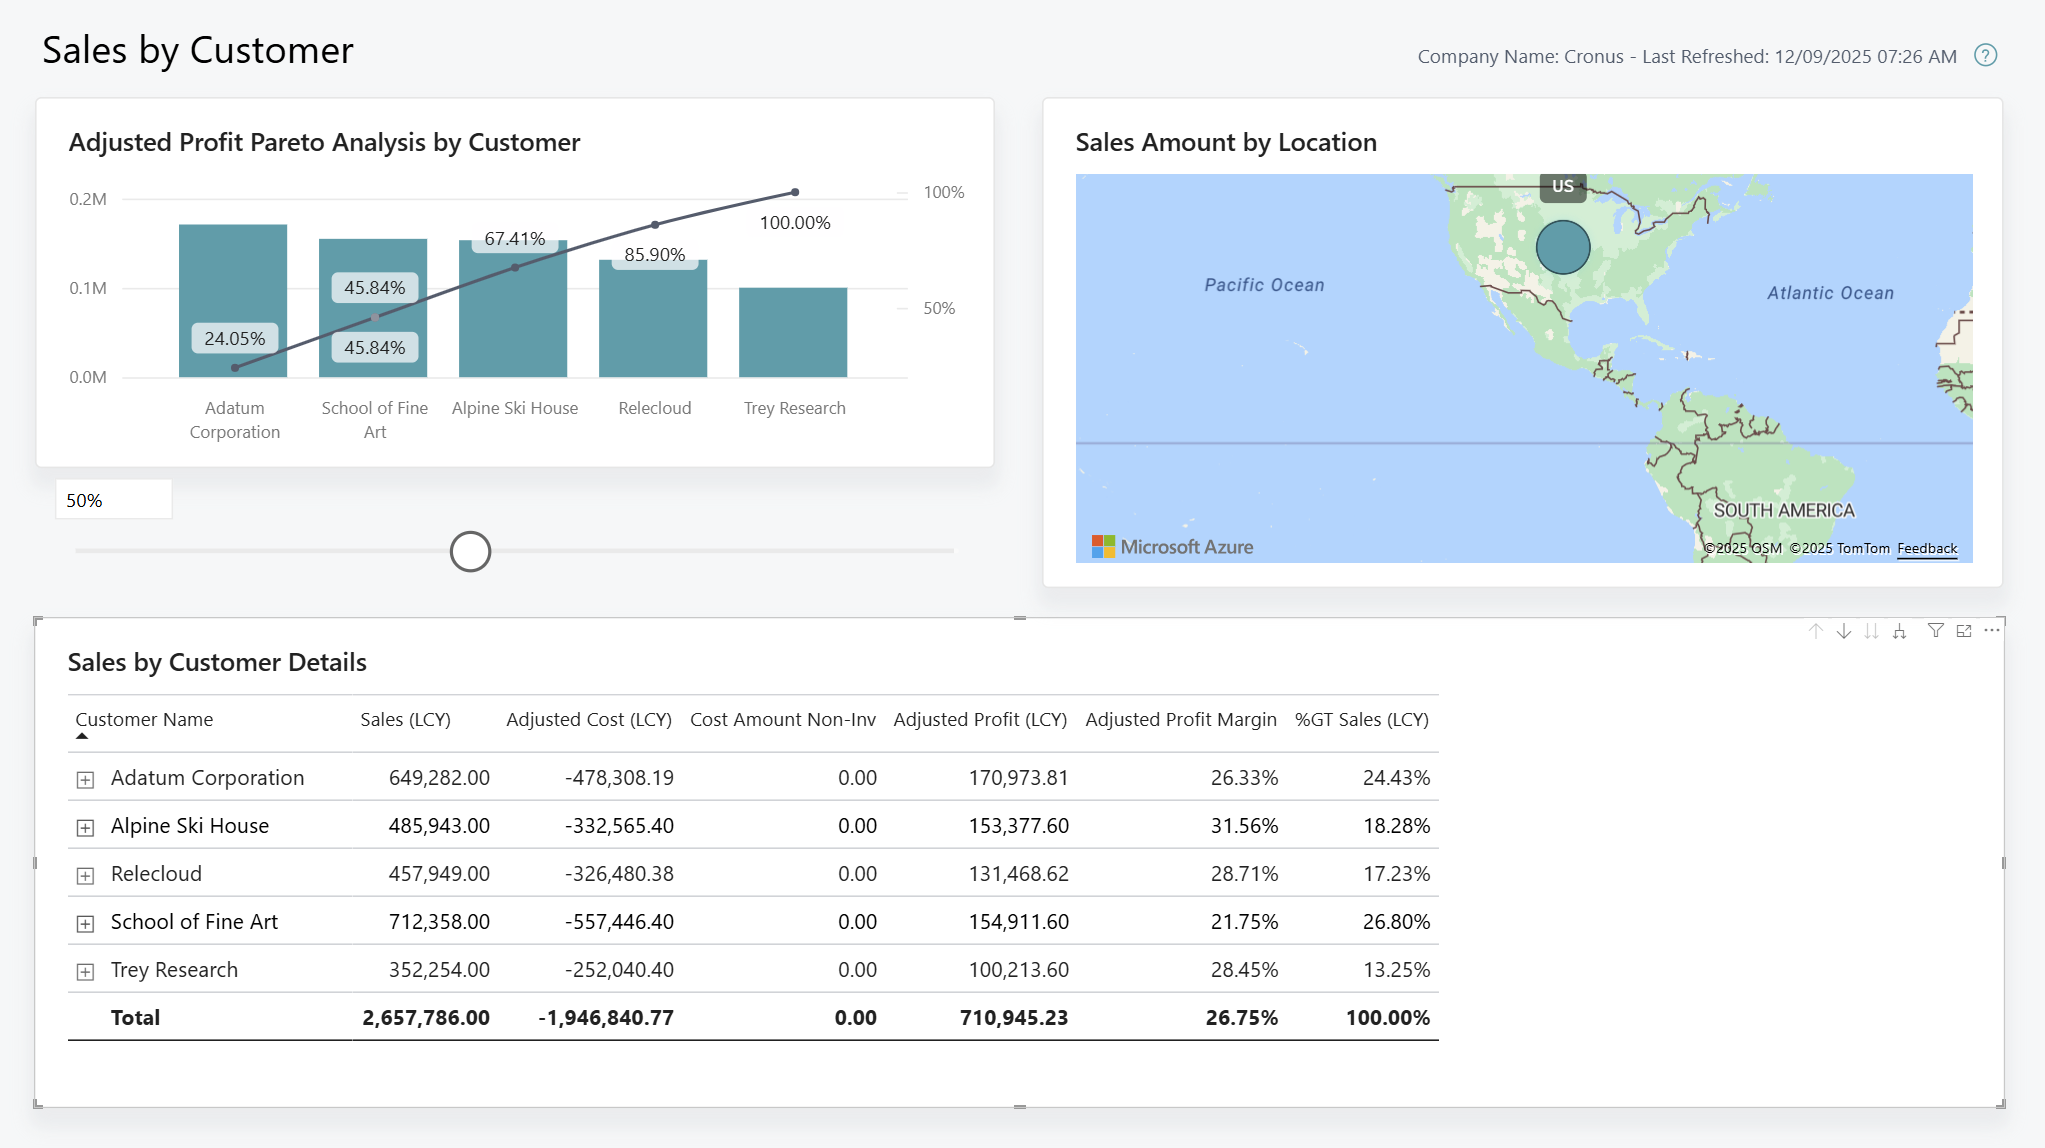
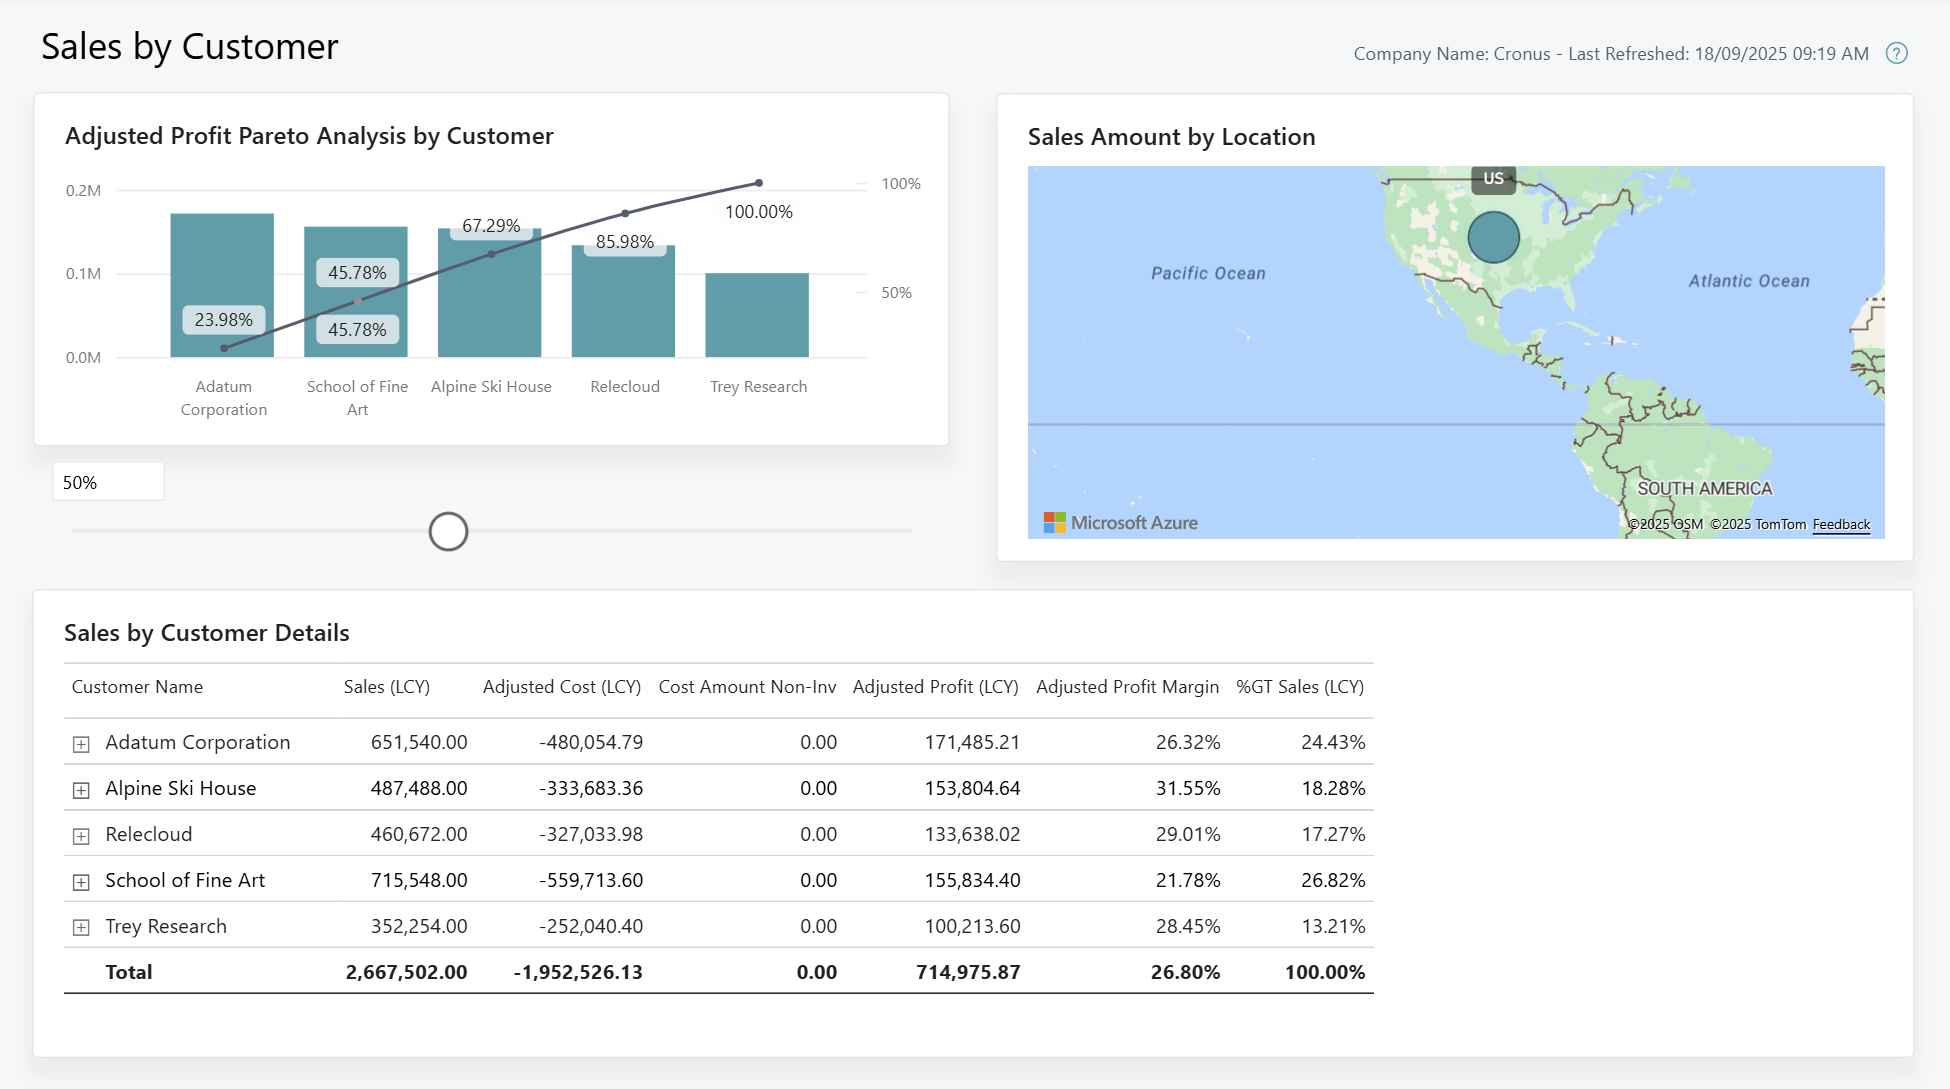
Updates sales page KPIs

diff --git a/business-central/sales-powerbi-sales-overview.md b/business-central/sales-powerbi-sales-overview.md
@@ -55,9 +55,11 @@ The report includes the following KPIs and measures:
 - [**Adjusted Profit (LCY)**](sales-powerbi-sales-kpis.md#adjusted-profit-lcy)
 - [**Adjusted Profit Margin**](sales-powerbi-sales-kpis.md#adjusted-profit-margin)
 - [**Outstanding Invoices (LCY)**](sales-powerbi-sales-kpis.md#outstanding-invoices-lcy)
-- [**No. of New Customers**](sales-powerbi-sales-kpis.md#no-of-new-customers)
 - [**No. of Outstanding Sales Orders**](sales-powerbi-sales-kpis.md#no-of-outstanding-sales-orders)
 - [**No. of Shipped Not Invoiced Orders**](sales-powerbi-sales-kpis.md#no-of-shipped-not-invoiced-sales)
+- [**Outstanding Orders (LCY)**](sales-powerbi-sales-kpis.md#outstanding-orders-lcy)
+- [**Shipped Not Invoiced (LCY)**](sales-powerbi-sales-kpis.md#shipped-not-invoiced-lcy)
+- [**No. of Outstanding Invoices**](sales-powerbi-sales-kpis.md#no-of-outstanding-invoices)
 
 [!INCLUDE[click-on-a-kpi-link](includes/click-on-a-kpi-link.md)] 
 

diff --git a/business-central/sales-powerbi-period-over-period-growth.md b/business-central/sales-powerbi-period-over-period-growth.md
@@ -35,10 +35,11 @@ For sales managers who oversee daily sales activities, the report can help you i
 
 The report includes the following key performance indicators (KPIs) and measures:
 
-- [**Sales Amount**](sales-powerbi-sales-kpis.md#sales-amount)
+- [**Sales (LCY)**](sales-powerbi-sales-kpis.md#sales-lcy)
 - [**Previous Period**](sales-powerbi-sales-kpis.md#sales-amount-pp-fiscal)
 - [**Period-over-Period Growth Amount**](sales-powerbi-sales-kpis.md#sales-amount-pop-fiscal)
 - [**Period-over-Period Growth %**](sales-powerbi-sales-kpis.md#sales-amount-pop--fiscal)
+- [**Sales Amount PP (Fiscal Year)**](sales-powerbi-sales-kpis.md#sales-amount-pp-fiscal-year)
 
 [!INCLUDE[click-on-a-kpi-link](includes/click-on-a-kpi-link.md)] 
 

diff --git a/business-central/sales-powerbi-sales-forecasting.md b/business-central/sales-powerbi-sales-forecasting.md
@@ -17,8 +17,7 @@ ms.service: dynamics-365-business-central
 
 The **Sales Forecasting** report predicts future sales trends based on historical data. It uses advanced techniques to project sales values, helping users anticipate demand.
 
-**To do** Add correct link to image
-:::image type="content" source="media/sales/sales-forecasting.png" alt-text="Screenshot of the Sales Forecasting Power BI report" lightbox="media/sales/sales-forecasting.png":::
+:::image type="content" source="media/powerbi/sales/sales-forecasting.png" alt-text="Screenshot of the Sales Forecasting Power BI report" lightbox="media/powerbi/sales/sales-forecasting.png":::
 
 ## Use the report
 

diff --git a/business-central/sales-powerbi-sales-by-customer.md b/business-central/sales-powerbi-sales-by-customer.md
@@ -38,7 +38,7 @@ The report includes the following key performance indicators (KPIs) and measures
 - [**Cost Amount Non-Inv**](sales-powerbi-sales-kpis.md#cost-amount-non-inv)
 - [**Adjusted Profit (LCY)**](sales-powerbi-sales-kpis.md#adjusted-profit-lcy)
 - [**Adjusted Profit Margin**](sales-powerbi-sales-kpis.md#adjusted-profit-margin)
-- [**%GT Sales (LCY)**](sales-powerbi-sales-kpis.md#gt-sales-lcy)
+- [**Pareto Cumulative Adjusted Profit %**](sales-powerbi-sales-kpis.md#pareto-cumulative-adjusted-profit)
 
 [!INCLUDE[click-on-a-kpi-link](includes/click-on-a-kpi-link.md)] 
 

diff --git a/business-central/sales-powerbi-opportunity-overview.md b/business-central/sales-powerbi-opportunity-overview.md
@@ -41,6 +41,7 @@ The report includes the following key performance indicators (KPIs) and measures
 - [**No. of Opportunities**](sales-powerbi-sales-kpis.md#no-of-opportunities)
 - [**Opportunity Sales Quote Amount**](sales-powerbi-sales-kpis.md#opportunity-sales-quote-amount)
 - [**Win/Loss %**](sales-powerbi-sales-kpis.md#win-loss-percent)
+- [**Active Estimated Value**](sales-powerbi-sales-kpis.md#active-estimated-value)
 
 [!INCLUDE[click-on-a-kpi-link](includes/click-on-a-kpi-link.md)]
 

diff --git a/business-central/sales-powerbi-return-order-overview.md b/business-central/sales-powerbi-return-order-overview.md
@@ -40,6 +40,7 @@ The report includes the following key performance indicators (KPIs) and measures
 - [**Total Credit (Qty.)**](sales-powerbi-sales-kpis.md#total-credit-qty)
 - [**No. of Return Orders**](sales-powerbi-sales-kpis.md#no-of-return-orders)
 - [**Credit Adjusted Profit (LCY)**](sales-powerbi-sales-kpis.md#credit-adjusted-profit-lcy)
+- [**Total Sales (Amount)**](sales-powerbi-sales-kpis.md#total-sales-amount)
 
 [!INCLUDE[click-on-a-kpi-link](includes/click-on-a-kpi-link.md)]
 

diff --git a/business-central/sales-powerbi-sales-by-location.md b/business-central/sales-powerbi-sales-by-location.md
@@ -37,7 +37,6 @@ The report includes the following key performance indicators (KPIs) and measures
 - [**Cost Amount Non-Inv**](sales-powerbi-sales-kpis.md#cost-amount-non-inv)  
 - [**Adjusted Profit (LCY)**](sales-powerbi-sales-kpis.md#adjusted-profit-lcy)  
 - [**Adjusted Profit Margin**](sales-powerbi-sales-kpis.md#adjusted-profit-margin)
-- [**%GT Sales (LCY)**](sales-powerbi-sales-kpis.md#gt-sales-lcy)
 
 [!INCLUDE[click-on-a-kpi-link](includes/click-on-a-kpi-link.md)] 
 

diff --git a/business-central/sales-powerbi-sales-by-item.md b/business-central/sales-powerbi-sales-by-item.md
@@ -39,7 +39,6 @@ The report includes the following key performance indicators (KPIs) and measures
 - [**Cost Amount Non-Inv**](sales-powerbi-sales-kpis.md#cost-amount-non-inv)
 - [**Adjusted Profit (LCY)**](sales-powerbi-sales-kpis.md#adjusted-profit-lcy)
 - [**Adjusted Profit Margin**](sales-powerbi-sales-kpis.md#adjusted-profit-margin)
-- [**%GT Sales (LCY)**](sales-powerbi-sales-kpis.md#gt-sales-lcy)
 
 [!INCLUDE[click-on-a-kpi-link](includes/click-on-a-kpi-link.md)] 
 

diff --git a/business-central/sales-powerbi-sales-by-salesperson.md b/business-central/sales-powerbi-sales-by-salesperson.md
@@ -39,7 +39,6 @@ The report includes the following key performance indicators (KPIs) and measures
 - [**Sales Quantity**](sales-powerbi-sales-kpis.md#sales-quantity)
 - [**Adjusted Profit (LCY)**](sales-powerbi-sales-kpis.md#adjusted-profit-lcy)
 - [**Adjusted Profit Margin**](sales-powerbi-sales-kpis.md#adjusted-profit-margin)
-- [**%GT Sales (LCY)**](sales-powerbi-sales-kpis.md#gt-sales-lcy)
 
 [!INCLUDE[click-on-a-kpi-link](includes/click-on-a-kpi-link.md)] 
 

diff --git a/business-central/sales-powerbi-sales-demographics.md b/business-central/sales-powerbi-sales-demographics.md
@@ -38,7 +38,6 @@ The **Sales Demographics** report includes the following KPIs and measures:
 - [**Sales (LCY)**](sales-powerbi-sales-kpis.md#sales-lcy)
 - [**Adjusted Profit (LCY)**](sales-powerbi-sales-kpis.md#adjusted-profit-lcy)
 - [**Adjusted Profit Margin**](sales-powerbi-sales-kpis.md#gross-profit-margin)
-- [**%GT Sales (LCY)**](sales-powerbi-sales-kpis.md#gt-sales-lcy)  
 
 [!INCLUDE[click-on-a-kpi-link](includes/click-on-a-kpi-link.md)]
 
